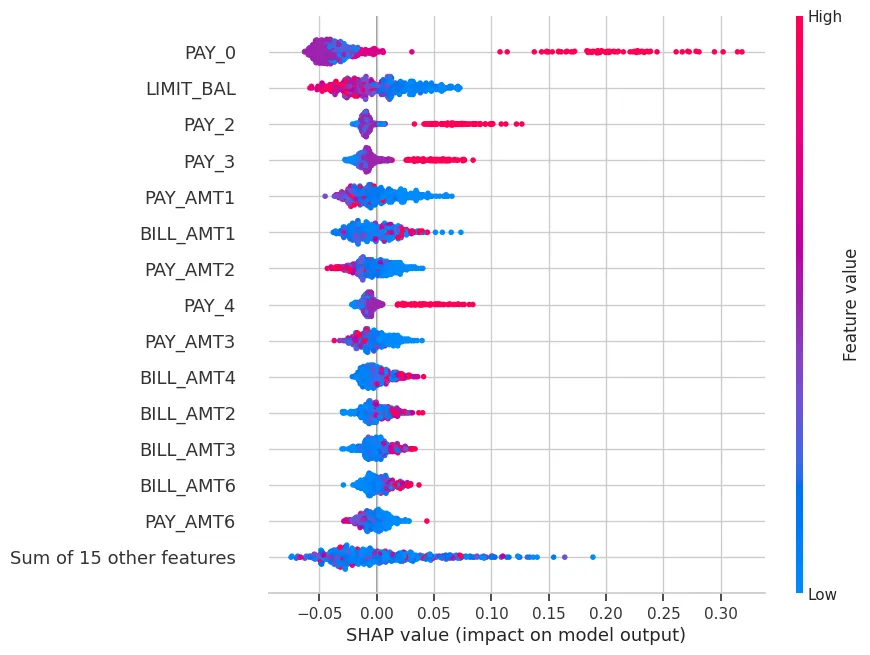
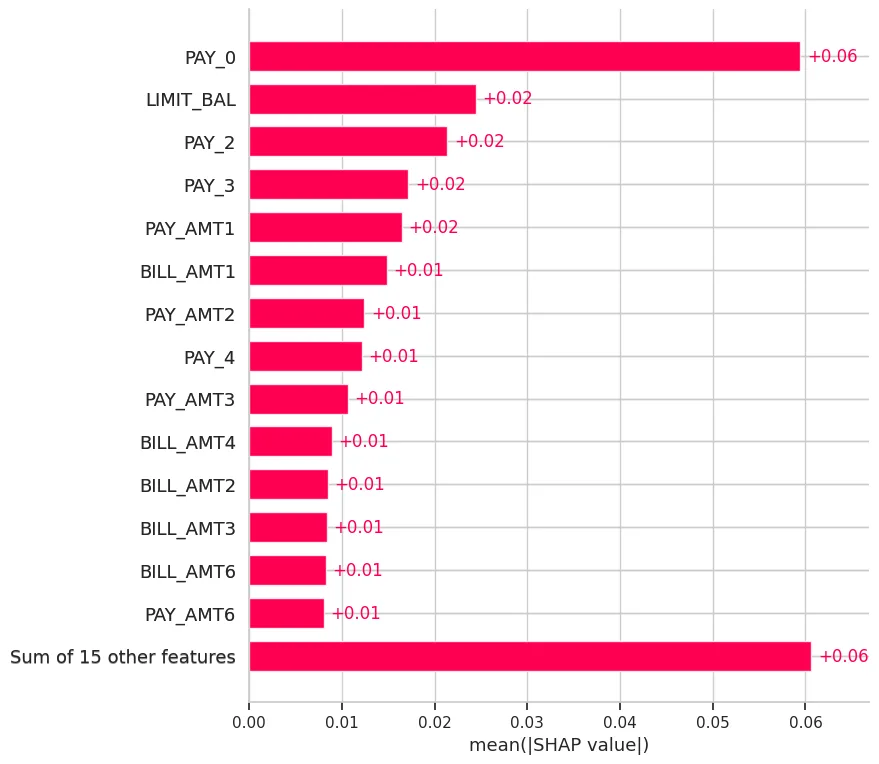
Replace weaker result figures (BTC 30-day, SHAP beeswarm, Pareto)

diff --git a/data.js b/data.js
@@ -415,7 +415,6 @@ window.PORTFOLIO = {
       ],
       metrics: [ { value: "1.77%", label: "MAPE, 7 days" }, { value: "10.5%", label: "MAPE, 30 days" } ],
       shots: [
-        { src: "assets/results/timellm-btc.webp", cap: "Bitcoin: Time-LLM forecast (green) against actual prices (orange) over the last 30 days" },
         { src: "assets/results/timellm-nordpool.webp", cap: "Nord Pool electricity prices: history, test period and forecast" },
         { src: "assets/results/timellm-de.webp", cap: "German electricity prices: history, test period and forecast" }
       ],
@@ -528,11 +527,11 @@ window.PORTFOLIO = {
       text: "Qwen2.5-7B served with vLLM. Compared naive, few-shot, chain-of-thought and role prompting on BoolQ (chain-of-thought best, 0.61 accuracy vs 0.51 naive), then set up 4-bit LoRA fine-tuning with Unsloth." },
     { tag: "Neural Network Architectures · Advanced ML", title: "Generative models from scratch", img: "assets/results/cw-vae.webp", cap: "VAE on LFW faces: original, reconstruction, and the same face edited in latent space",
       text: "A diffusion text-to-image model with time embeddings and a U-Net, a DCGAN in PyTorch, and a convolutional VAE trained on the LFW faces dataset." },
-    { tag: "Advanced ML", title: "Interpretable credit-risk model", img: "assets/results/cw-shap.webp", cap: "SHAP summary: which features drive the default prediction",
+    { tag: "Advanced ML", title: "Interpretable credit-risk model", img: "assets/results/cw-shap.webp", cap: "Mean SHAP value per feature: recent repayment status (PAY_0) and credit limit drive the default prediction",
       text: "Logistic regression, random forest and XGBoost on the UCI credit-default data (XGBoost 0.76 ROC AUC), explained with SHAP, LIME and eli5." },
     { tag: "Advanced ML", title: "SARIMA vs LSTM demand forecasting", img: "assets/results/cw-sarima.webp", cap: "SARIMA (red) and LSTM (green) forecasts against actual weekly sales",
       text: "Weekly store demand forecast over a 52-week horizon. SARIMA reached 7.88% MAPE and R² 0.78; a multi-step LSTM reached 14.6% and R² 0.12." },
-    { tag: "Optimisation Methods", title: "Combinatorial and multi-objective optimisation", img: "assets/results/cw-pareto.webp", cap: "Pareto front: exact ε-constraint method vs NSGA-II",
+    { tag: "Optimisation Methods", title: "Combinatorial and multi-objective optimisation", img: "assets/results/cw-sa.webp", cap: "Simulated annealing reached 93–100% of the optimal knapsack value found by dynamic programming, for 20 to 62 items",
       text: "0/1 knapsack with dynamic programming vs simulated annealing, and site selection with an exact ε-constraint method vs NSGA-II, without optimisation libraries." },
     { tag: "Neural Network Architectures", title: "CNN from scratch in NumPy",
       text: "Convolution and pooling layers with forward and backward passes, written without a deep learning framework." }
